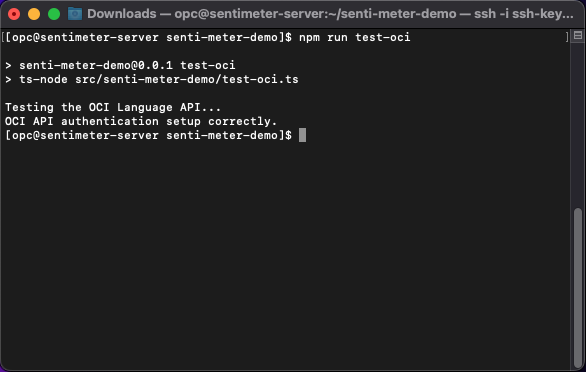
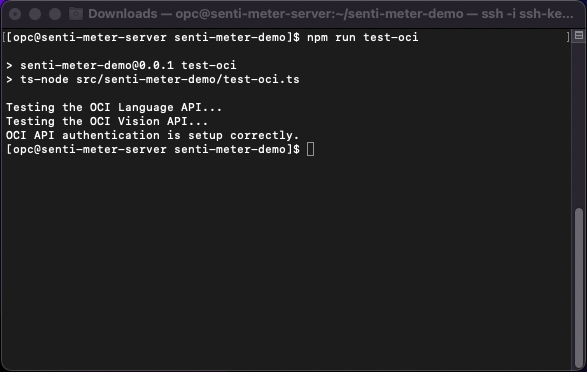
Changes for WMS: 11170 (#29)
* initial commit

* rename root folder and update code file

* update source code zip

* update screenshots

* self QA updates

* update source zip file

* livelab updates

* Resolve language comments

* added instructions for the operation of the random tweets generator

* update source archive

* moved the zip file to object storage + minor language changes

* Added description for the bundled images

* add clarification to Twitter rule creation

* minor changes

* LiveLab additions

* Additions to livelab

Changed region(s): [[0.0, 0.0, 0.9829, 1.0]]

diff --git a/redbull-twitter-sentiment-analysis/7-start-your-engines/start-your-engines.md b/redbull-twitter-sentiment-analysis/7-start-your-engines/start-your-engines.md
@@ -2,8 +2,13 @@
 
 ## Introduction
 
+Estimated time - 25 minutes
+
 After completing the hard work of configuring the demo, now it's time to sit back, relax and observe the results.
 In just a few steps we will be able to see the flow of tweets analyzed by the Oracle AI APIs sent directly to our screen.
+
+Watch the video below for a quick walk through of the lab.
+[](videohub:1_lm0mekqt)
 
 ### Objectives
 
@@ -27,8 +32,8 @@ In this task we will launch each of these components.
 1. In your connected terminal, execute the following two commands to start the tweets `consumer` and observe its operation:
 
     ```bash
-    [opc@senti-meter-server ~]$ <copy>npm run consumer</copy>
-    [opc@senti-meter-server ~]$ <copy>tail -f consumer</copy>
+    [opc@senti-meter-server senti-meter-demo]$ <copy>npm run consumer</copy>
+    [opc@senti-meter-server senti-meter-demo]$ <copy>tail -f consumer</copy>
     ```
 
     The output from these two commands should look similar to this:
@@ -42,8 +47,8 @@ In this task we will launch each of these components.
 2. In your connected terminal, execute the following two commands to start the tweets `processor` and observe its operation:
 
     ```bash
-    [opc@senti-meter-server ~]$ <copy>npm run processor</copy>
-    [opc@senti-meter-server ~]$ <copy>tail -f processor</copy>
+    [opc@senti-meter-server senti-meter-demo]$ <copy>npm run processor</copy>
+    [opc@senti-meter-server senti-meter-demo]$ <copy>tail -f processor</copy>
     ```
 
     The output from these two commands should look similar to this:
@@ -55,8 +60,8 @@ In this task we will launch each of these components.
 3. (OPTIONAL) After you are done running the demo, you can use the following commands to stop the `consumer` and/or `processor` processes (if you intend to run the demo right now, please skip this section):
 
     ```bash
-    [opc@senti-meter-server ~]$ <copy>npm run stop-processor</copy>
-    [opc@senti-meter-server ~]$ <copy>npm run stop-consumer</copy>
+    [opc@senti-meter-server senti-meter-demo]$ <copy>npm run stop-processor</copy>
+    [opc@senti-meter-server senti-meter-demo]$ <copy>npm run stop-consumer</copy>
     ```
 
 4. (OPTIONAL) This demo includes a `random tweets generator` which can be used as a stand-in replacement for the tweets `consumer`. You can use the generator in case you ran into issues or were unable to setup a Tweeter developer account or for generating pseudo tweets with a specific sentiment. Using the tweets generator you can control the rate at which the tweets are generated (the default being 10 tweets per second).  
@@ -75,8 +80,8 @@ In this task we will launch each of these components.
     3. To start the tweets generator, use the following command:
 
         ```bash
-        [opc@senti-meter-server ~]$ <copy>npm run random-generator</copy>
-        [opc@senti-meter-server ~]$ <copy>tail -f random-generator</copy>
+        [opc@senti-meter-server senti-meter-demo]$ <copy>npm run random-generator</copy>
+        [opc@senti-meter-server senti-meter-demo]$ <copy>tail -f random-generator</copy>
         ```
 
         The output from these two commands should look similar to:
@@ -90,7 +95,7 @@ In this task we will launch each of these components.
     5. To stop the `random tweets generator`, use the following command:
 
         ```bash
-        [opc@senti-meter-server ~]$ <copy>npm run stop-random-generator</copy>
+        [opc@senti-meter-server senti-meter-demo]$ <copy>npm run stop-random-generator</copy>
         ```
 
 
@@ -118,7 +123,7 @@ The client used to visualize the analysis results is an HTML file which can be o
     Please make sure that the single quotes remain at the beginning and end of the IP address without any additional spacing. When done, save the file and exit the editor.
 
 4. Before we load the client into the browser, we need to let the browser know we are aware that the TLS certificate used to connect to our Compute Instance is a self-signed one (this was covered in a [previous lab](?lab=deploy-the-demo-code-to-the-ci#Task4:CreateaselfsignedTLScertificate)).  
-To do this, start your favorite browser and navigate to: `https://[Compute Instanec IP]:9000`. As an example, the address should look similar to this: `https://192.168.0.74:9000`.  
+To do this, start your favorite browser and navigate to: `https://[Compute Instance IP]:9000`. As an example, the address should look similar to this: `https://192.168.0.74:9000`.  
 Depending on your browser, you should see a message similar to this:
 
     ![Browser certificate error](images/browser-certificate-error.png "Browser certificate error")
@@ -164,8 +169,8 @@ Here are the steps to run the Vision AI demo:
 Use the following commands to stop the running Language demo using your connected terminal:
 
     ```bash
-    [opc@senti-meter-server ~]$ <copy>npm run stop-processor</copy>
-    [opc@senti-meter-server ~]$ <copy>npm run stop-consumer</copy>
+    [opc@senti-meter-server senti-meter-demo]$ <copy>npm run stop-processor</copy>
+    [opc@senti-meter-server senti-meter-demo]$ <copy>npm run stop-consumer</copy>
     ```
 
 2. Use the following command to start the `image-consumer`:
@@ -173,7 +178,7 @@ Use the following commands to stop the running Language demo using your connecte
     > **Note:** We do not control the type of images being posted to Twitter. Some of the content might be unsavory. Several images have been bundled with the source code zip file under the `~/senti-meter-demo/images` folder. You can use the bundled images without starting the `image-consumer`.
 
     ```bash
-    [opc@senti-meter-server ~]$ <copy>npm run image-consumer</copy>
+    [opc@senti-meter-server senti-meter-demo]$ <copy>npm run image-consumer</copy>
     ```
 
     This process performs a query on past tweets using the filter defined in `.env` for the `IMAGE_QUERY` parameter. The default value queries for tweets which mention `@redbullracing`, contain images, and are not a retweet.  
@@ -182,8 +187,8 @@ Use the following commands to stop the running Language demo using your connecte
 3. Use the following command to start the `image-processor`:
 
     ```bash
-    [opc@senti-meter-server ~]$ <copy>npm run image-processor</copy>
-    [opc@senti-meter-server ~]$ <copy>tail -f image-processor</copy>
+    [opc@senti-meter-server senti-meter-demo]$ <copy>npm run image-processor</copy>
+    [opc@senti-meter-server senti-meter-demo]$ <copy>tail -f image-processor</copy>
     ```
 
     The output from these two commands should look similar to this:
@@ -195,10 +200,10 @@ Use the following commands to stop the running Language demo using your connecte
 4. (OPTIONAL) After you are done running the demo, you can use the following command to stop the `processor` process (if you intend to run the demo now, please skip this section):
 
     ```bash
-    [opc@senti-meter-server ~]$ <copy>npm run stop-image-processor</copy>
+    [opc@senti-meter-server senti-meter-demo]$ <copy>npm run stop-image-processor</copy>
     ```
 
-## Task 3: Launch the Vision AI image demo client
+## Task 4: Launch the Vision AI image demo client
 
 We will now load the client in the browser to observe the results of image analysis.
 Please make sure you have completed the steps to approve the self-signed certificate covered in a [previous task](#Task2:LaunchtheSentiMeterclient).

diff --git a/redbull-twitter-sentiment-analysis/6-deploy-the-demo-code-to-the-ci/deploy-the-demo-code-to-the-ci.md b/redbull-twitter-sentiment-analysis/6-deploy-the-demo-code-to-the-ci/deploy-the-demo-code-to-the-ci.md
@@ -2,8 +2,13 @@
 
 ## Introduction
 
+Estimated time - 20 minutes
+
 In pervious steps we configured a Twitter developer account and a Compute Instance to run our demo.
 In the following steps, we will copy and configure the demo code on the Compute Instance.
+
+Watch the video below for a quick walk through of the lab.
+[](videohub:1_0hszsv2k)
 
 ### Objectives
 
@@ -167,7 +172,7 @@ In this step we will create the TLS certificate and key files required to establ
     [opc@senti-meter-server senti-meter-demo]$ <copy>rm csr.pem</copy>
     ```
 
-    The at the end of the process, your terminal should look similar to this:
+    At the end of the process, your terminal should look similar to this:
 
     ![Create TLS certificate terminal output](images/create-tls-certificate-terminal-output.png "Create TLS certificate terminal output")
 
@@ -210,7 +215,11 @@ In the connected terminal, execute the following command:
     * If after validating the above steps the command still fails to execute, please re-generate the `Bearer Token` for your Twitter Application on the [Twitter Developer Portal](https://developer.twitter.com/en/portal/dashboard) and repeat the steps to update the new `Bearer Token` in `.env`.
 
 2. As our second validation step, we will test the OCI API authentication configuration.  
-In the connected terminal, execute the following command:
+To do this we will use `~/senti-meter-demo/src/senti-meter-demo/test-oci.ts`.  
+This program is a tiny example of how to call the Oracle Language & Vision AI API using JavaScript (we have an equivalent program written in Python in the same folder `~/senti-meter-demo/src/senti-meter-demo/test-oci.py`).  
+Take a look at the `Learn More` section for links to API references and samples in other languages.  
+
+    To run the program, in the connected terminal, execute the following command:
 
     ```bash
     [opc@senti-meter-server senti-meter-demo]$ <copy>npm run test-oci</copy>
@@ -226,7 +235,94 @@ In the connected terminal, execute the following command:
     * The file specified in the value to `key_file` exists.
     * If all else fails, please repeat the steps in the [previous lab](?lab=setup-oci-api-authentication) where we have configured the OCI API authentication.
 
+    To see the output of the Language & Vision API calls, you can use the `--print` parameter:
+
+    ```bash
+    [opc@senti-meter-server senti-meter-demo]$ <copy>npm run test-oci -- --print</copy>
+    ```
+
+    To run the Python version:
+
+    ```bash
+    [opc@senti-meter-server senti-meter-demo]$ <copy>python src/senti-meter-demo/test-oci.py</copy>
+    ```
+
+3. Let's take a look at the code in `~/senti-meter-demo/src/senti-meter-demo/test-oci.ts`:  
+After importing the required parts of the OCI SDK, we start by creating the authentication info:
+
+    ```typescript
+    const authenticationDetailsProvider = new common.ConfigFileAuthenticationDetailsProvider();
+    ```
+
+    This line of code will read the `config` file we've previously created in `~/.oci/` and load all of the required authentication information.  
+
+    Next we will create the  language client (passing the authentication information to it) and call the Sentiment Analysis API:
+
+    ```typescript
+    const languageClient = new aiLanguage.AIServiceLanguageClient({ authenticationDetailsProvider });
+
+    const languageResponse = await languageClient.detectLanguageSentiments({
+      detectLanguageSentimentsDetails: {
+        text: 'What a wonderful day here at Oracle CloudWorld!'
+      }
+    });
+    ```
+
+    The call is leveraging the OCI SDK's internal support for the async/await pattern. Any failed requests will be automatically retried by the SDK up to the default maximum (see the `Learn More` section for more information).  
+    The response will be stored in `languageResponse`. Here's a sample response:
+
+    ```json
+    {
+      "aspects": [{
+        "length": 3,
+        "offset": 17,
+        "scores": {
+          "Negative": 7.862009561745389e-07,
+          "Neutral": 0.0,
+          "Positive": 0.9999992137990438
+        },
+        "sentiment": "Positive",
+        "text": "day"
+      },
+      {
+        "length": 17,
+        "offset": 29,
+        "scores": {
+          "Negative": 0.0,
+          "Neutral": 7.328266953885117e-07,
+          "Positive": 0.9999992671733046
+        },
+        "sentiment": "Positive",
+        "text": "Oracle CloudWorld"
+      }]
+    }
+    ```
+
+    In this response we can see that two sentiment aspects were detected in the text. Both returned with their position in the text (`offset` & `length`), the scores given by the model for each sentiment possibility and the final sentiment.  
+
+    The program continues to execute a similar patter for the Vision API.
+
 You may now **proceed to the next lab**.
+
+## Learn More
+
+OCI SDK
+
+* [Software Development Kits and Command Line Interface](https://docs.oracle.com/en-us/iaas/Content/API/Concepts/sdks.htm)
+
+Language AI
+
+* [Language AI Documentation](https://docs.oracle.com/en-us/iaas/language/using/language.htm)
+* [Language AI API](https://docs.oracle.com/en-us/iaas/api/#/en/language/20210101/)
+* [Sentiment Analysis API](https://docs.oracle.com/en-us/iaas/api/#/en/language/20210101/DetectLanguageSentiments/DetectLanguageSentiments)
+* [LiveLab - Perform Sentiment Analysis with OCI AI Language Service and OAC](https://apexapps.oracle.com/pls/apex/r/dbpm/livelabs/view-workshop?wid=3214&clear=RR,180&session=114878582023421)
+
+Vision AI
+
+* [Vision AI Documentation](https://docs.oracle.com/en-us/iaas/vision/vision/using/home.htm)
+* [Vision AI API](https://docs.oracle.com/en-us/iaas/api/#/en/vision/20220125/)
+* [Analyze Image API](https://docs.oracle.com/en-us/iaas/api/#/en/vision/20220125/AnalyzeImageResult/AnalyzeImage)
+* [LiveLab - Introduction to OCI Vision](https://apexapps.oracle.com/pls/apex/dbpm/r/livelabs/view-workshop?wid=931)
 
 ## Acknowledgements
 

diff --git a/redbull-twitter-sentiment-analysis/3-create-and-connect-to-an-oci-compute-instance/create-and-connect-to-an-oci-compute-instance.md b/redbull-twitter-sentiment-analysis/3-create-and-connect-to-an-oci-compute-instance/create-and-connect-to-an-oci-compute-instance.md
@@ -2,7 +2,12 @@
 
 ## Introduction
 
+Estimated time - 20 minutes
+
 We will set up the demo to run from an OCI Compute Instance (aka VM). We will configure this Compute Instance as a "server" which will send real-time updates to the demo web client. The client will then visualize these updates. After creating the Compute Instance we will connect to it using SSH.
+
+Watch the video below for a quick walk through of the lab.
+[](videohub:1_2uwwnol4)
 
 ### Objectives
 
@@ -25,7 +30,7 @@ We will set up the demo to run from an OCI Compute Instance (aka VM). We will co
 
    ![Name instance](images/name-instance.png)
 
-5. We are going to accept most of the defaults on this page. Please make sure that under the Image and shape section, Oracle Linux is selected and under the Networking section, the Assign a public IPv4 address is selected.
+5. We are going to accept most of the defaults on this page. Please make sure that under the Image and shape section, Oracle Linux is selected and under the Networking section, Assign a public IPv4 address is selected.
 
    ![Oracle Linux selected](images/oracle-linux-selected.png)
    ![Assign IPv4 address selected](images/assign-ipv4-address.png)
@@ -183,4 +188,4 @@ You may now **proceed to the next lab**.
 ## Acknowledgements
 
 * **Authors:**
-	* Yanir Shahak - Senior Principal Software Engineer, Health & AI
+   * Yanir Shahak - Senior Principal Software Engineer, Health & AI

diff --git a/redbull-twitter-sentiment-analysis/5-setup-oci-api-authentication/setup-oci-api-authentication.md b/redbull-twitter-sentiment-analysis/5-setup-oci-api-authentication/setup-oci-api-authentication.md
@@ -2,7 +2,12 @@
 
 ## Introduction
 
+Estimated time - 15 minutes
+
 Throughout this workshop we will be making extensive use of the Oracle Cloud Infrastructure (OCI) AI APIs. To issue API requests, we need to append authentication information to the requests. In this lab we will set up this authentication mechanism.
+
+Watch the video below for a quick walk through of the lab.
+[](videohub:1_n1rffcvj)
 
 ### Objectives
 

diff --git a/redbull-twitter-sentiment-analysis/4-configure-the-compute-instance/configure-the-compute-instance.md b/redbull-twitter-sentiment-analysis/4-configure-the-compute-instance/configure-the-compute-instance.md
@@ -2,8 +2,13 @@
 
 ## Introduction
 
+Estimated time - 10 minutes
+
 In previous sections we created the Compute Instance and established a connection to it.  
 In this section we will make the necessary configurations for the demo to work properly.
+
+Watch the video below for a quick walk through of the lab.
+[](videohub:1_4d415278)
 
 ### Objectives
 

diff --git a/redbull-twitter-sentiment-analysis/2-create-a-twitter-developer-account/create-a-twitter-developer-account.md b/redbull-twitter-sentiment-analysis/2-create-a-twitter-developer-account/create-a-twitter-developer-account.md
@@ -2,6 +2,8 @@
 
 ## Introduction
 
+Estimated time - 20 minutes
+
 This workshop uses Twitter's [Filtered Stream API](https://developer.twitter.com/en/docs/twitter-api/tweets/filtered-stream/introduction) for retrieving public tweets in near real-time. To use this API, we need access to a Twitter developer account.
 
 ### Objectives
